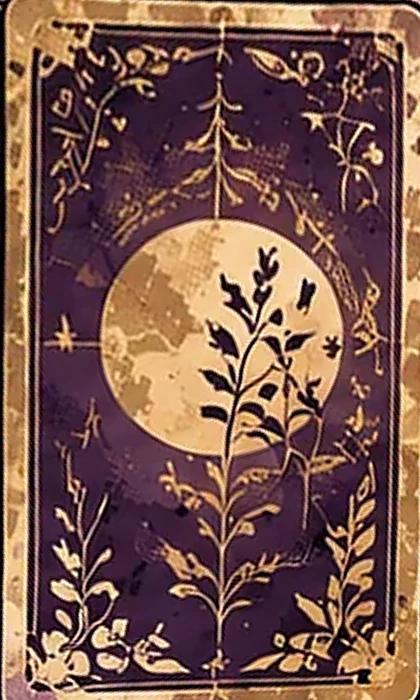
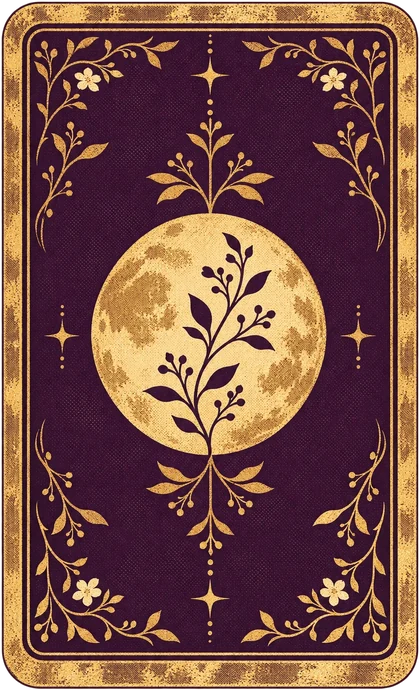
Codexが作ったモーション用の絵11枚を採用（#3254・TMG43）
Issue #3254 の11枚は Codex が PR #3259 で生成し、main にマージ済みだったが、Codex の検品では
「11枚とも不合格」で採用先に置いていなかった。不合格の理由は、依頼文に書いた CHECK が厳しすぎたこと
（180度回転で同じ・ピクセル単位の外形一致・完全な無地・指定の画素数）。原寸と数値で見直し、11枚とも採用した。

- remake/img/ui/transitions/{tarot,shift,sketch,cheki,plane}/: 原寸の WebP（新規・Git LFS）
- asset_sources/transitions/motion-props-3254/make_webp.py: 原画（raw/・無加工）から WebP を作る
- asset_sources/transitions/motion-props-3254/README.md: 採用の判断の表を追記（Codex の記録はそのまま）
- 見本ページの占いの札を、切り出しの粗い札から Codex の札の裏と表の枠に替えた（make_assets.py・cards/）
- docs/owner_requests.md: TMG41 を更新、TMG43 を追加。docs/prompts/asset_gen_prompts.md の索引を更新

本編のコードは未変更（絵を置いただけ。演出への組み込みは方向が決まってから）。
確認: 見本ページの占いを再生してエラー0、PC・スマホ幅で横スクロールなし。
quick の docs・slim-deploy・stamp-deploy・typography-css は PASS。新しい画像11枚の LFS 登録を確認。

Claude-Session: https://claude.ai/code/session_01ACPhX2xoRRAsuWJNZuo5No

diff --git a/remake/previews/motion-direction/index.html b/remake/previews/motion-direction/index.html
@@ -9,7 +9,7 @@
   モーション改善案（2026-11-11・docs/owner_requests.md の TMG35〜40）。提案用の見本で、本編のコードは読まず、本編にも接続していない。
   開き方: リポジトリのルートで python3 remake/tools/serve_preview.py --port 8123 → http://127.0.0.1:8123/remake/previews/motion-direction/
   「いま」は本編の録画（clips/）と静止画（stills/）、「改善案」はゲームの絵（remake/img）をその場で読んで動かす。
-  cards/ と stills/train-streak.webp は make_assets.py が採用済みの絵から作る（新しい絵は生成していない）。
+  cards/ と stills/train-streak.webp は make_assets.py が作る（札は Issue #3254 で Codex が作った札の裏と表の枠、車窓の流れは採用済みの車内の絵から）。
   page・fonts・body・script の印は、同じ内容を非公開ページ（アーティファクト）へ出すときの切り出し位置。
 -->
 <!--page-->
@@ -172,11 +172,11 @@ section { display: grid; gap: 28px; min-width: 0; }
 [data-demo="tarot"] .table { transform-origin: 30% 60%; }
 [data-demo="tarot"] .shade { background: linear-gradient(105deg, #0a0410d9 0%, #0a04108c 38%, transparent 64%); }
 [data-demo="tarot"] .lantern { background: radial-gradient(20cqw 18cqw at 97% 12%, #ffc97a80, transparent 70%); mix-blend-mode: screen; opacity: 0; }
-.card { position: absolute; left: 0; top: 0; width: 15.6cqw; aspect-ratio: 3 / 5; opacity: 0; }
+.card { position: absolute; left: 0; top: 0; width: 15.6cqw; aspect-ratio: 420 / 690; opacity: 0; }
 .card .face { position: absolute; inset: 0; border-radius: 0.9cqw; background-size: cover; background-position: center; backface-visibility: hidden; -webkit-backface-visibility: hidden; box-shadow: 0 0 0 1px #1a0d2466; overflow: hidden; }
 .card .front { transform: perspective(90cqw) rotateY(-180deg); }
 .card .front::after { content: ""; position: absolute; inset: -20% -60%; background: linear-gradient(100deg, transparent 42%, #fff6d9cc 50%, transparent 58%); translate: -70% 0; mix-blend-mode: screen; }
-.card-shadow { position: absolute; left: 0; top: 0; width: 15.6cqw; aspect-ratio: 3 / 5; border-radius: 1cqw; background: #05020a; filter: blur(1.2cqw); opacity: 0; }
+.card-shadow { position: absolute; left: 0; top: 0; width: 15.6cqw; aspect-ratio: 420 / 690; border-radius: 1cqw; background: #05020a; filter: blur(1.2cqw); opacity: 0; }
 [data-demo="tarot"] .band { bottom: 10.5cqw; width: 45cqw; }
 [data-demo="tarot"] .band .t { font-size: 6.6cqw; letter-spacing: 0.14em; }
 
@@ -236,7 +236,7 @@ footer { color: var(--dim); font-size: 13px; border-top: 1px solid var(--line); 
   <p class="eyebrow"><span>水煙前線 -EN:CODE-</span><span>モーション改善案</span><span>2026-11-11</span></p>
   <h1><span>演出を、</span><span><span class="gold">ゲームの絵</span>で</span><span>作り直す</span></h1>
   <p class="lead measure">いま入っている演出28種類を、実機で通常の速さで再生して見直しました。しょぼく、ちぐはぐに見える原因は共通です。背景もカットインも描き込まれた絵なのに、演出だけが紫の平らな図形でコードから描かれています。</p>
-  <p class="lead measure">直し方も共通です。図形をやめて、その場の背景と、採用済みの登場カットインの絵柄で作ります。下に動く見本を6つ置きました。新しい絵は1枚も作っていません。</p>
+  <p class="lead measure">直し方も共通です。図形をやめて、その場の背景と、採用済みの登場カットインの絵柄で作ります。下に動く見本を6つ置きました。占いの札のほかは、ゲームにすでにある絵だけで作っています。</p>
 </header>
 
 <section id="diagnosis">
@@ -295,7 +295,7 @@ footer { color: var(--dim); font-size: 13px; border-top: 1px solid var(--line); 
 <section id="samples">
   <div class="sec-head">
     <h2>動く見本</h2>
-    <p class="measure">左がいまの本編の録画、右が改善案です。画面を押すと再生します。右はすべて、ゲームにすでにある絵だけで作っています。</p>
+    <p class="measure">左がいまの本編の録画、右が改善案です。画面を押すと再生します。右は、ゲームにすでにある絵と、Codex に作ってもらった占いの札（Issue #3254）で作っています。</p>
   </div>
 
   <article class="sample" id="sample-cut">
@@ -392,9 +392,9 @@ footer { color: var(--dim); font-size: 13px; border-top: 1px solid var(--line); 
     </div>
     <div class="tools"><button class="btn main" data-play="both">見比べる</button></div>
     <ul class="notes">
-      <li>舞台は占い師の登場カットインの背景。札の裏は、その絵に描かれている札をそのまま使っています。</li>
+      <li>舞台は占い師の登場カットインの背景。札の裏は、その絵に描かれている札を手本に Codex が描いたものです（Issue #3254）。</li>
       <li>札の表は、占う相手の絵柄（ここではつむぎの藤棚）。顔は出さず、誰の札かが絵と帯で分かります。白紙の札はなくなります。</li>
-      <li>絵柄の切り出しは33人分できます。見本の札は切り出しなので少し粗く、鮮明な札の裏と表の枠を Codex へ依頼しました。約 5 秒（いまは 4.5 秒）。</li>
+      <li>表の枠は1枚で、窓に入れる絵柄を占う相手ごとに替えます（登場カットインの絵柄は33人分あります）。約 5 秒（いまは 4.5 秒）。</li>
     </ul>
   </article>
 
@@ -463,19 +463,19 @@ footer { color: var(--dim); font-size: 13px; border-top: 1px solid var(--line); 
       <tr><th>帰宅の扉</th><td><span class="v redo">作り直す</span></td><td>線で描いた扉</td><td>見本2。部屋に灯りが点く。扉は描かない</td><td>不要</td></tr>
       <tr><th>就寝から翌朝へ</th><td><span class="v redo">作り直す</span></td><td>紫の幕、小さな DAY、太陽の図形</td><td>見本3。部屋の夜と朝の絵をつなぐ</td><td>不要</td></tr>
       <tr><th>DAY カード</th><td><span class="v redo">作り直す</span></td><td>暗い帯に小さな文字</td><td>見本3と同じ題字にそろえる</td><td>不要</td></tr>
-      <tr><th>バイト終業</th><td><span class="v redo">作り直す</span></td><td>紫の丸い札が回る。4.4 秒</td><td>店の閉店の札を1回返すだけ。1.2 秒。店内は隠さない</td><td>閉店の札（表と裏）</td></tr>
+      <tr><th>バイト終業</th><td><span class="v redo">作り直す</span></td><td>紫の丸い札が回る。4.4 秒</td><td>店の閉店の札を1回返すだけ。1.2 秒。店内は隠さない</td><td>閉店の札（表と裏・届いた）</td></tr>
       <tr><th>電車</th><td><span class="v fix">一部を直す</span></td><td>人混みの絵（良い）を紫1色で塗っている</td><td>絵は活かす。昼は日差し、夜は車内灯の色で塗り、窓の光を流す</td><td>不要</td></tr>
       <tr class="group"><th colspan="5">遠くへの移動</th></tr>
       <tr><th>新幹線</th><td><span class="v redo">作り直す</span></td><td>紫の線画の車内</td><td>見本6。本物の車内の絵で車窓を流す</td><td>不要</td></tr>
-      <tr><th>飛行機</th><td><span class="v redo">作り直す</span></td><td>暗い面に小さな窓が1つ</td><td>機内の窓の絵で、雲と空の色を流す。行き先は題字で</td><td>機内の窓の席、雲海（夜・夜明け）</td></tr>
+      <tr><th>飛行機</th><td><span class="v redo">作り直す</span></td><td>暗い面に小さな窓が1つ</td><td>機内の窓の絵で、雲と空の色を流す。行き先は題字で</td><td>機内の窓の席、雲海（夜・夜明け・届いた）</td></tr>
       <tr><th>配送便</th><td><span class="v drop">やめる</span></td><td>飛行機と同じ窓の図形</td><td>ふつうの切り替えと題字だけにする</td><td>不要</td></tr>
       <tr class="group"><th colspan="5">人との出来事</th></tr>
-      <tr><th>チェキ</th><td><span class="v redo">作り直す</span></td><td>紫の地、カメラの図形、写真が小さい。10 秒</td><td>みんとの絵柄を舞台に、写真を主役の大きさで。落書きの書き順はいまのものを活かす。5 秒</td><td>マーカー2本（あると良い）</td></tr>
-      <tr><th>占い</th><td><span class="v redo">作り直す</span></td><td>紫の札をめくると白紙</td><td>見本4</td><td>札の裏と表の枠（あると鮮明）</td></tr>
+      <tr><th>チェキ</th><td><span class="v redo">作り直す</span></td><td>紫の地、カメラの図形、写真が小さい。10 秒</td><td>みんとの絵柄を舞台に、写真を主役の大きさで。落書きの書き順はいまのものを活かす。5 秒</td><td>マーカー2本（届いた）</td></tr>
+      <tr><th>占い</th><td><span class="v redo">作り直す</span></td><td>紫の札をめくると白紙</td><td>見本4</td><td>札の裏と表の枠（届いた）</td></tr>
       <tr><th>贈り物</th><td><span class="v redo">作り直す</span></td><td>白い箱の図形と紙吹雪</td><td>見本5</td><td>不要</td></tr>
       <tr><th>サメちゃんとの出会い</th><td><span class="v redo">作り直す</span></td><td>紫の口と三角の牙</td><td>サメちゃんの絵柄と店の青で。牙の図形はやめる</td><td>不要</td></tr>
       <tr><th>ガラガラくじ</th><td><span class="v fix">一部を直す</span></td><td>既定の配色が紫1色で、店の絵と合わない</td><td>実装済みの「場面ごとの色」（木のカウンター、漆と真鍮の抽選器）を既定に戻す</td><td>不要</td></tr>
-      <tr><th>スケッチ</th><td><span class="v fix">一部を直す</span></td><td>線画は良い。紙のスケッチブックとペンが紫の図形で、台本のタブレットとも合わない</td><td>台本どおりタブレットに替え、その画面に線画を描く</td><td>タブレットとペン</td></tr>
+      <tr><th>スケッチ</th><td><span class="v fix">一部を直す</span></td><td>線画は良い。紙のスケッチブックとペンが紫の図形で、台本のタブレットとも合わない</td><td>台本どおりタブレットに替え、その画面に線画を描く</td><td>タブレットとペン（届いた）</td></tr>
       <tr><th>LIME 交換</th><td><span class="v keep">残す</span></td><td>実際の画面と、ぼかした店内</td><td>そのまま</td><td>不要</td></tr>
       <tr><th>プリクラ</th><td><span class="v keep">残す</span></td><td>立ち絵・CG・店の柄</td><td>そのまま</td><td>不要</td></tr>
       <tr class="group"><th colspan="5">章の要所</th></tr>
@@ -504,7 +504,7 @@ footer { color: var(--dim); font-size: 13px; border-top: 1px solid var(--line); 
   <ol class="steps">
     <li><b>毎日見る5つ</b><p>場面の切り替え、マップから店へ、帰宅、就寝から翌朝へ、DAY カード。新しい絵は不要。ゲーム全体の印象がいちばん変わります。あわせて、ガラガラくじの配色を戻します。</p></li>
     <li><b>人との出来事4つ</b><p>占い、贈り物、チェキ、サメちゃん。登場カットインの絵柄を舞台にします。新しい絵は不要。</p></li>
-    <li><b>絵が要る4つ</b><p>バイト終業（閉店の札）、スケッチ（タブレットとペン）、飛行機（機内の窓の席と雲海）、龍の煙（一枚絵）。龍の煙のほかは、占いの札とチェキのマーカーとあわせて11枚を Issue #3254 で Codex へ依頼しました。</p></li>
+    <li><b>絵が要る4つ</b><p>バイト終業（閉店の札）、スケッチ（タブレットとペン）、飛行機（機内の窓の席と雲海）、龍の煙（一枚絵）。龍の煙のほかの絵は、占いの札とチェキのマーカーとあわせて11枚とも Codex から届いています（Issue #3254・<code>remake/img/ui/transitions/</code>）。</p></li>
     <li><b>残りと資料</b><p>新幹線、電車、回想、フィナーレ、敗北と再挑戦、大会の2つ。配送便の窓はやめます。あわせて資料の「画像を使わない」「紫1色」の約束を、上の5つの決まりへ書き換えます。</p></li>
   </ol>
   <div class="sec-head"><h3>決めてほしいこと</h3></div>
@@ -512,10 +512,10 @@ footer { color: var(--dim); font-size: 13px; border-top: 1px solid var(--line); 
     <li>この方向（ゲームの絵で作り直す）で進めてよいか。</li>
     <li>場面の切り替えは A（煙のにじみ）と B（網点）のどちらにするか。ふだんは A、大きな区切りだけ B という使い分けもできます。</li>
     <li>占いの札の表を「占う相手の絵柄」にしてよいか。</li>
-    <li>Codex への依頼（Issue #3254 の11枚）を、この内容で投げてよいか。龍の煙の一枚絵は CG なので、別に相談します。</li>
+    <li>Codex から届いた11枚（Issue #3254）を採用してよいか。龍の煙の一枚絵は CG なので、別に相談します。</li>
     <li>「残す」とした5つ（LIME 交換・プリクラ・章題・登場カットイン・「???」の走査）に、気に入っていないものがあれば教えてください。同じ決まりで作り直します。</li>
   </ol>
-  <footer>見本は本編に未接続です。新しい画像は作っていません（占いの札は、採用済みの登場カットインの絵から切り出しています）。いまの録画は 2026-11-11 の main を 1280×720・通常の速さで再生したものです。</footer>
+  <footer>見本は本編に未接続です。新しく作った絵は占いの札の裏と表の枠だけで、Codex が Issue #3254 で描きました。いまの録画は 2026-11-11 の main を 1280×720・通常の速さで再生したものです。</footer>
 </section>
 
 </div>

diff --git a/remake/previews/motion-direction/make_assets.py b/remake/previews/motion-direction/make_assets.py
@@ -1,58 +1,48 @@
 #!/usr/bin/env python3
-"""モーション改善案の見本で使う派生画像を、採用済みの絵から作る（新しい絵は生成しない）。
-- cards/back.webp          占い師の登場カットインの背景に描かれた札（月と草花）を正面へ起こしたもの
-- cards/front-tsumugi.webp 札の金の縁はそのまま、中だけ占う相手（つむぎ）の登場カットインの絵柄
+"""モーション改善案の見本で使う派生画像を、採用済みの絵から作る。
+- cards/back.webp          占いの札の裏（Issue #3254 で Codex が作った札の裏。透過の外側を切り落として縮小）
+- cards/front-tsumugi.webp 札の表（#3254 の表の枠の窓に、占う相手＝つむぎの登場カットインの絵柄を入れる）
 - stills/train-streak.webp 新幹線の車窓の「流れ」。車内の絵の窓の中だけを行ごとに横へ引き伸ばしたもの
 使い方: python3 remake/previews/motion-direction/make_assets.py   （Pillow・numpy が必要）"""
 from pathlib import Path
 import numpy as np
-from PIL import Image, ImageDraw, ImageFilter
+from PIL import Image, ImageFilter
 
 ROOT = Path(__file__).resolve().parents[3]
 HERE = Path(__file__).parent
 INTRO = ROOT / "remake/img/ui/character_intros/graphic"
 BG = ROOT / "remake/img/backgrounds"
-W, H = 420, 700  # 札の大きさ（3:5）
-
-
-def coeffs(dst, src):
-    """dst の4点（出力）→ src の4点（元の絵）へ写す射影変換の係数"""
-    rows = []
-    for (x, y), (u, v) in zip(dst, src):
-        rows.append([x, y, 1, 0, 0, 0, -u * x, -u * y])
-        rows.append([0, 0, 0, x, y, 1, -v * x, -v * y])
-    return np.linalg.solve(np.array(rows, dtype=float), np.array(src, dtype=float).reshape(8)).tolist()
+TAROT = ROOT / "remake/img/ui/transitions/tarot"  # #3254 の札（原画は asset_sources/transitions/motion-props-3254/raw/）
+CARD_BOX = (87, 60, 937, 1457)  # 札の外形（1024x1536 の中。裏と表の枠で共通）
+W, H = 420, round(420 * (CARD_BOX[3] - CARD_BOX[1]) / (CARD_BOX[2] - CARD_BOX[0]))  # 420x690（index.html の .card の比率と同じ）
+WINDOW = (195, 215, 828, 1319)  # 表の枠の窓（生成りの無地の所）
 
 
 def card_back():
-    art = Image.open(INTRO / "bg_uranaishi.webp").convert("RGB")
-    # 手前の札の四隅（左上・右上・右下・左下）。丸い角の外側の交点
-    quad = [(1366.0, 141.5), (1518.5, 186.5), (1431.0, 446.0), (1258.5, 380.5)]
-    card = art.transform((W, H), Image.Transform.PERSPECTIVE, coeffs([(0, 0), (W, 0), (W, H), (0, H)], quad), Image.Resampling.BICUBIC)
-    return card.filter(ImageFilter.UnsharpMask(radius=1.4, percent=60, threshold=2))
+    card = Image.open(TAROT / "card-back.webp").convert("RGBA").crop(CARD_BOX)
+    return card.resize((W, H), Image.Resampling.LANCZOS)
 
 
-def card_front(back):
+def card_front():
+    frame = Image.open(TAROT / "card-front-frame.webp").convert("RGBA")
+    a = np.asarray(frame).astype(int)
+    # 窓＝生成りの無地の画素（窓の矩形の中だけ）。少しぼかして、金の細い線との継ぎ目をなじませる
+    ivory = (abs(a[..., 0] - 241) < 16) & (abs(a[..., 1] - 229) < 16) & (abs(a[..., 2] - 208) < 18) & (a[..., 3] > 250)
+    box = np.zeros_like(ivory)
+    x0, y0, x1, y1 = WINDOW
+    box[y0 - 6:y1 + 6, x0 - 6:x1 + 6] = True
+    mask = Image.fromarray(((ivory & box) * 255).astype("uint8")).filter(ImageFilter.MaxFilter(3)).filter(ImageFilter.GaussianBlur(0.8))
+    # 藤棚と遠景の縦長の一角（左側）を、窓と同じ縦横比で切る
     art = Image.open(INTRO / "bg_tsumugi.webp").convert("RGB")
-    out = back.copy()
-    ix, iy = round(W * 0.118), round(H * 0.072)  # 金の縁と細い内枠の内側
-    iw, ih = W - ix * 2, H - iy * 2
-    # 藤棚と遠景の縦長の一角（左側）を、内側と同じ縦横比で切る
-    ch = 880
-    cw = round(ch * iw / ih)
-    scene = art.crop((60, 30, 60 + cw, 30 + ch)).resize((iw, ih), Image.Resampling.LANCZOS)
-    # 角を丸く抜き、札の金と同じ色の細い内枠で継ぎ目を締める
-    k = 3
-    mask = Image.new("L", (iw * k, ih * k), 0)
-    ImageDraw.Draw(mask).rounded_rectangle([0, 0, iw * k - 1, ih * k - 1], radius=15 * k, fill=255)
-    out.paste(scene, (ix, iy), mask.resize((iw, ih), Image.Resampling.LANCZOS))
-    line = Image.new("RGBA", (W * k, H * k), (0, 0, 0, 0))
-    d = ImageDraw.Draw(line)
-    d.rounded_rectangle([(ix - 2) * k, (iy - 2) * k, (ix + iw + 2) * k, (iy + ih + 2) * k], radius=17 * k, outline=(38, 20, 52, 255), width=3 * k)
-    d.rounded_rectangle([(ix - 1) * k, (iy - 1) * k, (ix + iw + 1) * k, (iy + ih + 1) * k], radius=16 * k, outline=(214, 178, 106, 255), width=2 * k)
-    out = out.convert("RGBA")
-    out.alpha_composite(line.resize((W, H), Image.Resampling.LANCZOS))
-    return out.convert("RGB")
+    ww, wh = x1 - x0 + 12, y1 - y0 + 12
+    ch = 900
+    cw = round(ch * ww / wh)
+    scene = art.crop((60, 20, 60 + cw, 20 + ch)).resize((ww, wh), Image.Resampling.LANCZOS)
+    layer = Image.new("RGBA", frame.size, (0, 0, 0, 0))
+    layer.paste(scene, (x0 - 6, y0 - 6))
+    out = frame.copy()
+    out.paste(layer, (0, 0), mask)
+    return out.crop(CARD_BOX).resize((W, H), Image.Resampling.LANCZOS)
 
 
 def window_left(y):
@@ -107,8 +97,7 @@ def train_streak():
 if __name__ == "__main__":
     (HERE / "cards").mkdir(exist_ok=True)
     (HERE / "stills").mkdir(exist_ok=True)
-    back = card_back()
-    back.save(HERE / "cards/back.webp", quality=90, method=6)
-    card_front(back).save(HERE / "cards/front-tsumugi.webp", quality=90, method=6)
+    card_back().save(HERE / "cards/back.webp", quality=88, alpha_quality=100, method=6)
+    card_front().save(HERE / "cards/front-tsumugi.webp", quality=88, alpha_quality=100, method=6)
     train_streak().save(HERE / "stills/train-streak.webp", quality=82, method=6)
     print("ok")

diff --git a/asset_sources/transitions/motion-props-3254/make_webp.py b/asset_sources/transitions/motion-props-3254/make_webp.py
@@ -1,0 +1,31 @@
+#!/usr/bin/env python3
+"""Issue #3254 の原画（raw/ の PNG・無加工）から、ゲームが読む WebP を作る。
+原寸のまま。透過の絵は、生成のふちに残る alpha 1〜7 のごく薄いノイズだけを 0 にする（見た目は変わらない）。
+使い方: python3 asset_sources/transitions/motion-props-3254/make_webp.py"""
+from pathlib import Path
+import numpy as np
+from PIL import Image
+
+HERE = Path(__file__).parent
+ROOT = HERE.parents[2]
+OUT = ROOT / "remake/img/ui/transitions"
+# 原画 → ゲーム用（remake/img/ui/transitions/ の下）
+PLAN = {
+    "card-back": "tarot/card-back", "card-front-frame": "tarot/card-front-frame",
+    "sign-open": "shift/sign-open", "sign-closed": "shift/sign-closed",
+    "tablet": "sketch/tablet", "stylus": "sketch/stylus",
+    "marker-pink": "cheki/marker-pink", "marker-green": "cheki/marker-green",
+    "cabin": "plane/cabin", "cloudsea-night": "plane/cloudsea-night", "cloudsea-dawn": "plane/cloudsea-dawn",
+}
+
+for src, dst in PLAN.items():
+    im = Image.open(HERE / "raw" / f"{src}.png")
+    path = OUT / f"{dst}.webp"
+    path.parent.mkdir(parents=True, exist_ok=True)
+    if im.mode == "RGBA":
+        a = np.asarray(im).copy()
+        a[a[..., 3] < 8] = 0
+        Image.fromarray(a, "RGBA").save(path, "WEBP", quality=90, alpha_quality=100, method=6)
+    else:
+        im.convert("RGB").save(path, "WEBP", quality=86, method=6)
+    print(f"{dst}.webp", im.size, path.stat().st_size // 1024, "KB")

diff --git a/docs/owner_requests.md b/docs/owner_requests.md
@@ -40,8 +40,9 @@
 | TMG38 | ✅ 本PR（提案・TMG42 で訂正） | **28種類の判定**: 残す5（LIME交換・プリクラ・章題・登場カットイン・「???」の走査）／一部を直す4（電車・スケッチ・敗北の入り・ガラガラくじ）／作り直す18／やめる1（配送便の窓）。作り直す18のうち15は新しい絵なしで始められる。絵が要るのは4つ（バイト終業の閉店の札・スケッチのタブレットとペン・飛行機の機内の窓と雲海・龍の煙の一枚絵） |
 | TMG39 | ⏸ オーナー判断 | **決めてほしいこと**: ①この方向で進めてよいか ②場面の切り替えは A（煙のにじみ）と B（網点）のどちらか（ふだん A・大きな区切りだけ B も可）③占いの札の表を「占う相手の絵柄」にしてよいか ④Codex への依頼（#3254 の11枚）をこの内容で投げてよいか。龍の煙の一枚絵は CG なので別に相談 ⑤「残す」とした5つに気に入っていないものがあるか |
 | TMG40 | 未（TMG39 の返事待ち） | **進め方（案）**: 第1弾＝毎日見る5つ（場面の切り替え・マップから店へ・帰宅・就寝から翌朝へ・DAYカード）とガラガラくじの配色 → 第2弾＝人との出来事4つ（占い・贈り物・チェキ・サメちゃん）→ 第3弾＝絵が要る4つ → 第4弾＝残り（新幹線・電車・回想・フィナーレ・敗北と再挑戦・会場入り・ROUND の帯）と、資料の約束の書き換え。1つずつ小さなPRで本編へ入れる |
-| TMG41 | ✅ #3254（依頼）／未生成 | オーナー「コーデックスに依頼を投げてイシューを使って画像生成したいものは」→ 既存の絵だけでは作れない11枚を Issue #3254 にまとめた: 占いの札の裏と表の枠／tonari の閉店の札の表と裏（文字はコードが重ねる）／つむぎのタブレットとペン／チェキの落書きのマーカー（ピンク・緑）／機内の窓の席と、窓の外の雲海（夜・夜明け）。シーシャ機材・人物・文字は描かない。絵を置くだけの依頼で、演出への組み込みは方向が決まってから別PR。龍の煙の一枚絵は CG なので入れていない |
+| TMG41 | ✅ #3254（依頼）→ Codex が #3259 で生成・TMG43 で採用 | オーナー「コーデックスに依頼を投げてイシューを使って画像生成したいものは」→ 既存の絵だけでは作れない11枚を Issue #3254 にまとめた: 占いの札の裏と表の枠／tonari の閉店の札の表と裏（文字はコードが重ねる）／つむぎのタブレットとペン／チェキの落書きのマーカー（ピンク・緑）／機内の窓の席と、窓の外の雲海（夜・夜明け）。シーシャ機材・人物・文字は描かない。絵を置くだけの依頼で、演出への組み込みは方向が決まってから別PR。龍の煙の一枚絵は CG なので入れていない |
 | TMG42 | ✅ 本PR（訂正） | **依頼の前の見直しで分かったこと**: ①配色は紫1色が既定だが、実装には「場面ごとの色」の版もある（`?mopal=free`。CI123 で「オーナー指定がなかったので紫1色のまま」）。最初の見直しは既定の紫1色だけを見ていた。ガラガラくじは場面ごとの色の版が木のカウンター・漆と真鍮の抽選器で店の絵に合うので、作り直しではなく配色を戻すだけにする（抽選器の絵は頼まない）。ほかの演出は色を替えても平らな図形のままなので判定は変えない ②つむぎのスケッチは台本（`ch1_tsumugi_sketch`）ではタブレットで、いまの紙のスケッチブックは台本と合っていない。「スケッチブックとペン」ではなく「タブレットとペン」を頼む。見本ページの判定表と進め方も直した |
+| TMG43 | ✅ 本PR | オーナー「3254ブランチにない？」→ Codex が `muse/codex-a-3254-motion-props` で11枚を作り、PR #3259 でマージ済みだった（Codex の検品は「11枚とも不合格」で、採用先には置いていなかった）。不合格の理由は、依頼文に書いた CHECK が厳しすぎたこと（180度回転で同じ・ピクセル単位の外形一致・完全な無地・指定の画素数）。原寸と数値で見直し、11枚とも採用して `remake/img/ui/transitions/{tarot,shift,sketch,cheki,plane}/` に WebP を置いた（判断の表は `asset_sources/transitions/motion-props-3254/README.md`）。見本ページの占いの札も、切り出しの粗い札から Codex の札に替えた。演出への組み込みは方向が決まってから（TMG39・40） |
 
 ## 2026-11-10 斧投げを的に集中できる配置へ・描画を軽く（AXR）
 

diff --git a/asset_sources/transitions/motion-props-3254/README.md b/asset_sources/transitions/motion-props-3254/README.md
@@ -2,6 +2,8 @@
 
 内蔵画像生成で各画像を1枚ずつ作り、CHECKに外れた画像は同じプロンプトで計3回生成しました。下記は各画像の最良候補の無加工PNGです。すべてCHECK未合格のため、`assets/ui/transitions/` と `remake/img/ui/transitions/` への採用は保留しています。
 
+> **2026-11-11 採用（Claude・TMG43）**: 11枚とも採用し、`make_webp.py` で `remake/img/ui/transitions/` に原寸の WebP を置いた。不合格の理由は、依頼文（#3254）に書いた CHECK の基準が厳しすぎたもの（下の「採用の判断」）。原画はこのフォルダの `raw/`（無加工）のまま。
+
 | # | ファイル名 | ピクセル数 | bytes | SHA-256 | 使った参照 | CHECK の結果 |
 |---:|---|---:|---:|---|---|---|
[1 lines of base64/hex data omitted]
@@ -107,3 +109,18 @@ STYLE STANDARD (shisha-game backgrounds): anime visual novel background, detaile
 
 Scene: the same view and composition as the attached cloudsea-night.png (the same horizon height and the same kind of cloud layer), at first light: a narrow band of orange and rose along the horizon fading upward into pale blue-violet, the cloud tops catching warm pink light on one side and keeping cool violet shadows. No sun disc, no aircraft wing, no window frame, no land.
 ```
+
+## 採用の判断（2026-11-11・Claude・TMG43）
+
+CHECK の不合格は、依頼文を書いた側（Claude）が、生成でもゲームでも要らない厳しさで基準を決めたことによる。原寸で目視し、数値も測ったうえで11枚とも採用した。
+
+| # | 画像 | Codex の CHECK | 採用の判断 |
+|---:|---|---|---|
+| 1 | card-back | 中央の枝が180度回転で同じでない | 札は回転させずに使うので不要な条件だった。外形は中央（札の範囲 x 89〜935・y 63〜1455）、四隅は透過 |
+| 2 | card-front-frame | 窓に濃淡が残る | 窓の濃淡は標準偏差 0.7（8bit）でほぼ無地。窓の中はゲームが絵で覆う |
+| 3・4 | sign-open／sign-closed | パネルに濃淡・板が大きい・外形の一致 99.52% | パネルの濃淡は標準偏差 3 前後で、文字を重ねても目立たない。表裏の切り替えは札を回す一瞬なので、外形の 0.5% のずれは見えない |
+| 5 | tablet | 画面に弱い濃淡 | 標準偏差 0.7 でほぼ無地 |
+| 6〜8 | stylus／marker-pink／marker-green | 1254×1254 で指定の 1024×1024 を超える・外形の一致 98.92% | 内蔵の生成が出す大きさで、ゲームは縮小して使う。ペンの輪郭に白いにじみは見えない（拡大して確認） |
+| 9〜11 | cabin／cloudsea-night／cloudsea-dawn | 1672×941 で 2048×1152 に届かない・窓に濃淡・トレーが開いている | 移動の演出の一瞬に使う絵で、既存の車内の絵（`bg_ch3_train_arrival`）と同じ大きさ。機内の窓の中はゲームが雲海で覆う。トレーの上の封筒は新幹線の絵を手本にしたため写ったもので、残すか消すかは演出を作るときに決める |
+
+ゲーム用の WebP は `make_webp.py` で作る（原寸。透過の絵は、ふちのごく薄い alpha 1〜7 だけを 0 にする）。`assets/` には原寸 PNG を写していない（原画の `raw/` と同じものになり、Git LFS の容量が倍になるだけなので）。

diff --git a/docs/prompts/asset_gen_prompts.md b/docs/prompts/asset_gen_prompts.md
@@ -22,7 +22,7 @@
 
 > 2026-11-11 ICG19: カードゲーム「一台勝負」のミニゲームに足す絵（卓1・裏面2・技16・イベント7・キッチンタイマー1）の[依頼文の説明](../../asset_sources/card_game/art-20261111/prompts.md)。文の正本は同じフォルダの `gen.py`（`--print <id>`）。枠・文字・数字はコードが描き、絵には描かない。葉・炭・コンロ・ボウル・HMD・人物は本編の正規の絵を使う。機材が写る器具3枚は `docs/shisha_reference.md` §4 に従う。置き場と受け取り後の手順は [README](../../asset_sources/card_game/README.md)。依頼の Issue は #3221。未生成。
 
-> 2026-11-11 TMG41: モーションの作り直し（PR #3245）で要る絵11枚の Codex 用依頼は [Issue #3254](https://github.com/haseatsu114514-dot/shisha-game/issues/3254)。占いの札の裏と表の枠・tonari の閉店の札の表と裏・つむぎのタブレットとペン・チェキのマーカー2本・機内の窓の席と雲海2枚。文字・人物・シーシャ機材は描かない（札の文字と札の表の絵はコードが重ねる）。未生成。
+> 2026-11-11 TMG41: モーションの作り直し（PR #3245）で要る絵11枚の Codex 用依頼は [Issue #3254](https://github.com/haseatsu114514-dot/shisha-game/issues/3254)。占いの札の裏と表の枠・tonari の閉店の札の表と裏・つむぎのタブレットとペン・チェキのマーカー2本・機内の窓の席と雲海2枚。文字・人物・シーシャ機材は描かない（札の文字と札の表の絵はコードが重ねる）。PR #3259 で生成、TMG43 で11枚とも採用（`remake/img/ui/transitions/`）。依頼文の CHECK は厳しすぎた（180度回転で同じ・ピクセル単位の外形一致・完全な無地・指定の画素数は、内蔵の生成では満たせず、ゲームにも要らない）。次に頼むときは、ゲームで見える範囲の条件だけにする。
 
 > 2026-11-11 ICG09: カードゲーム案「一台勝負」のカードの見た目を決めるための[Codex用依頼書](../design/card_game/card_design_brief.md)。枠・文字・数字・温度の帯はコードで組み、画像生成は絵と質感だけ。方向3案（熾火と真鍮／フレーバー缶／大会ポスター）を6枚ずつ作って並べて比べる。絵に文字・数字・機材・人物を描かない（キューブ炭だけ炭を描くので `docs/shisha_reference.md` §4 に従う）。未生成。
 
